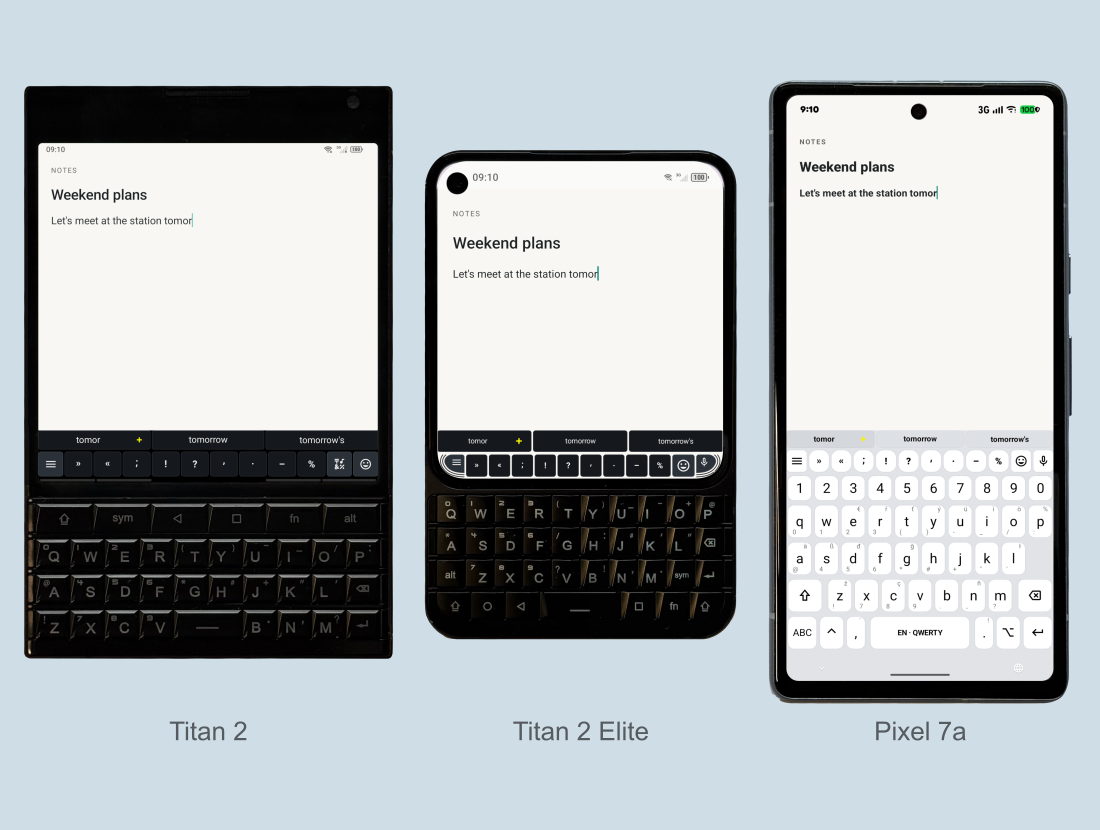
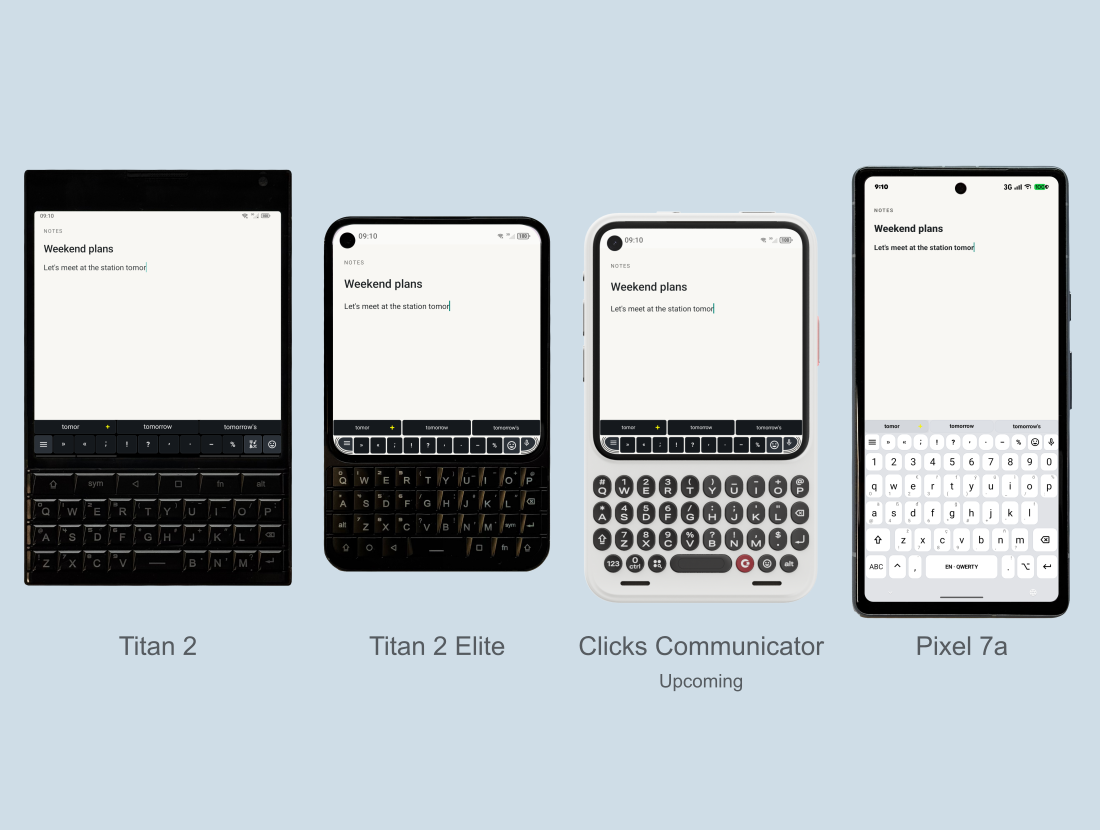
docs: add Clicks Communicator upcoming device preview

diff --git a/docs/showcase/sources/clicks-communicator/README.md b/docs/showcase/sources/clicks-communicator/README.md
@@ -1,0 +1,30 @@
+# Clicks Communicator preview
+
+Official frontal Smoke render from the [Clicks Communicator configurator](https://www.clicksphone.com/products/communicator).
+
+- Original: https://cdn.shopify.com/s/files/1/0768/8362/4251/files/communicator-smoke-2.png?v=1789058029
+- Retrieved: 2026-11-09
[1 lines of base64/hex data omitted]
+- Permission: the maintainer confirmed permission to show the upcoming device and replace the official image’s screen content in the implementation conversation.
+
+The comparison places the Communicator between the Titan 2 Elite and Pixel 7a, with an Upcoming label, on the same physical width scale (78.6 mm). All keyboard-bar upper edges share one horizontal reference; device names share one baseline.
+
+The Communicator uses exactly the same original 1076 × 1200 Notes backdrop (`raw/titan-2-elite/hero-full.png`), status bar (first 104 pixels of `raw/titan-2-elite/r6-full.png`), and complete native keyboard export (`raw/titan-2-elite/r6-full-ime.png`) as the Titan 2 Elite in the comparison. Original suggestions, controls and rounded LED contours are retained. The supplied user screenshot is a visual reference only. This is an upcoming-device preview; Communicator hardware has not been tested.
+
+The official render is cropped at x=611, y=384 to 698 × 1152 pixels, retaining the hardware silhouette. Its display opening is x=51, y=51, width=596, height=663 with rounded corners and the original camera preserved. Generated frame, mask and geometry files live under `frames/`.
+
+The ordinary showcase renderer prepares the Communicator automatically:
+
+```sh
+npm --prefix docs/showcase run render
+npm --prefix docs/showcase run verify
+node ../pkb-rocks.github.io/tools/build-plektra-assets.mjs .
+```
+
+To regenerate the frame and standalone PNG only:
+
+```sh
+node docs/showcase/sources/render-clicks-preview.cjs
+```
+
+The standalone image is `docs/showcase/exports/clicks-communicator-preview.png`. The website uses the shared `01-devices` artwork in both themes.

diff --git a/docs/showcase/README.md b/docs/showcase/README.md
@@ -4,7 +4,7 @@ Advanced (hardware) keyboard control on Android. Free software under GPLv3.
 
 Explore 21 presentations in the [Stable gallery](#stable-gallery) or [Nightly gallery](#nightly-gallery).
 
-The galleries use real Titan 2, Titan 2 Elite and Pixel 7a captures from October 2026. Both palettes show Nightly debug UI; native screenshot colors and contents are preserved. The Notes editor contains synthetic example text. Processed photographs frame the actual app captures.
+The galleries use real Titan 2, Titan 2 Elite and Pixel 7a captures from October 2026. Both palettes show Nightly debug UI; native screenshot colors and contents are preserved. The Notes editor contains synthetic example text. Processed photographs frame the actual app captures. The device comparison also includes an upcoming Clicks Communicator preview, using an official frontal product render and the same original screen composition as the Titan 2 Elite.
 
 ## Reproduce the images
 
@@ -325,6 +325,6 @@ Exports draw the native keyboard children, including both LED rails, on an ARGB 
 
 ## Device comparison scale
 
-The opening device comparison uses one physical width scale: Titan 2 88.7 mm, Titan 2 Elite 75 mm and Pixel 7a 72.9 mm. Manufacturer dimensions and source links are recorded in [device-dimensions.json](sources/device-dimensions.json). Transparent photograph margins are excluded when measuring the frame widths; each photograph keeps its aspect ratio.
+The opening device comparison uses one physical width scale: Titan 2 88.7 mm, Titan 2 Elite 75 mm, Clicks Communicator 78.6 mm and Pixel 7a 72.9 mm. Manufacturer dimensions and source links are recorded in [device-dimensions.json](sources/device-dimensions.json). Transparent photograph margins are excluded when measuring the frame widths; each photograph keeps its aspect ratio.
 
 The upper edge of each keyboard bar is measured in its capture and mapped into its device frame. These edges share one horizontal reference. Device labels share one baseline, with a 16 px gap below the lowest device silhouette.

diff --git a/docs/devices.md b/docs/devices.md
@@ -11,6 +11,10 @@ The maintainer owns these devices and uses them for development and testing.
 - **Google Pixel 7a + Clicks Power Keyboard** — a directly tested physical keyboard combination.
 - **Samsung Galaxy Z Fold6** — standalone software keyboard and folding behaviour; also used with the Clicks Power Keyboard. Further improvements for foldables are planned.
 
+## Upcoming
+
+- **[Clicks Communicator](https://www.clicksphone.com/communicator)** — Plektra support planned. The website shows a composed Plektra preview using the manufacturer's device render and a Titan 2 Elite capture.
+
 ## Community support
 
 - **BlackBerry KEY2**
